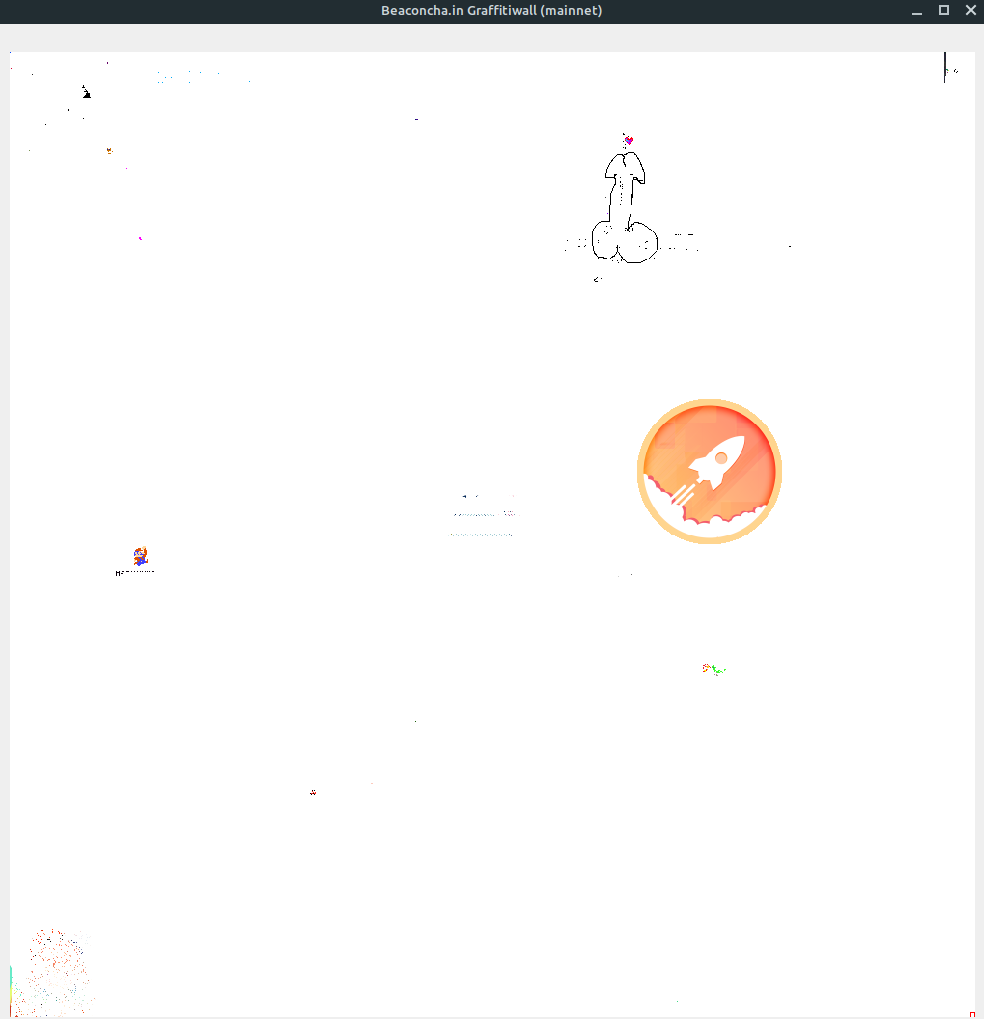
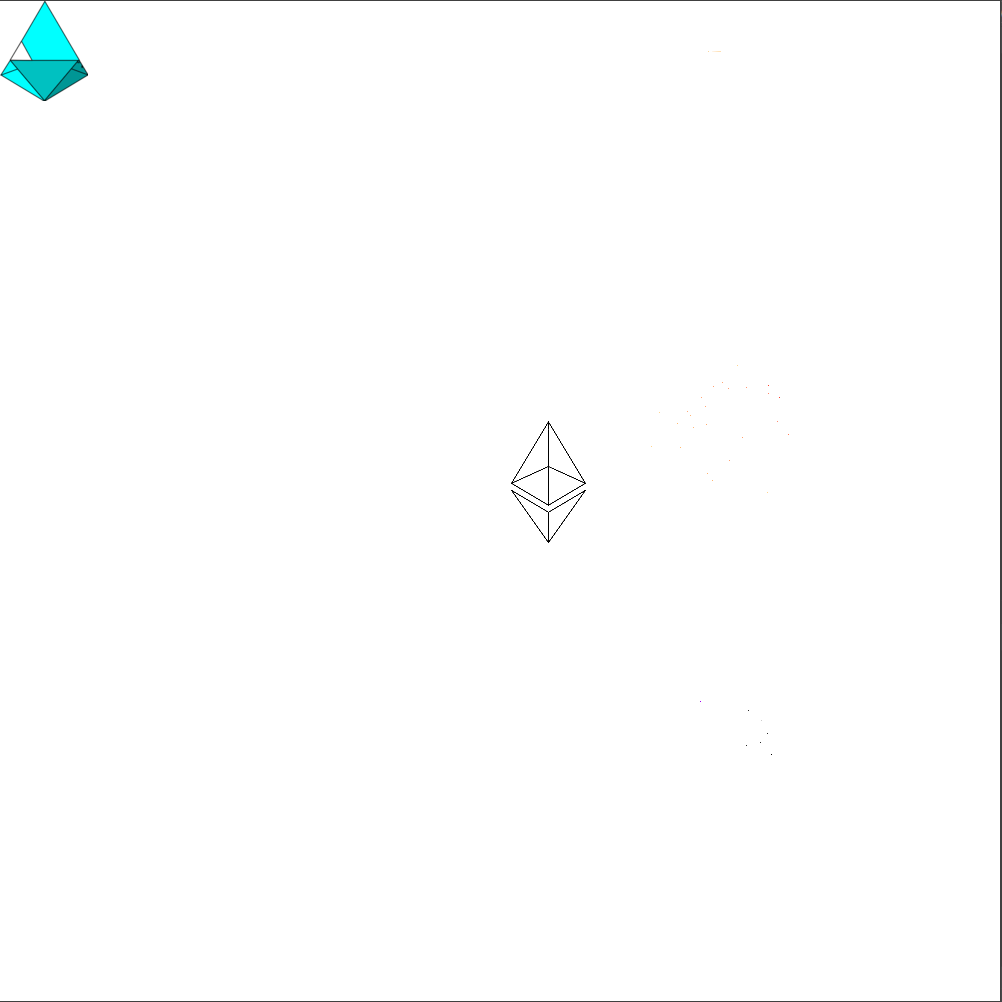
[REMOVE] old nimbus binaries
[FIX] reloading graffiti file for prysm
[UPDATE] readme showing currently drawn image

diff --git a/Drawer.py b/Drawer.py
@@ -151,11 +151,12 @@ if __name__ == "__main__":
     # file formatting
     pre = ""
     post = ""
-    if args.client != "teku":
-        pre += "default: "
-        if args.client == "prysm":
-            pre += '"'
-            post = '"'
+    if args.client == "lighthouse":
+        pre = "default: "
+    elif args.client == "prysm":
+        pre = 'ordered:\n  - "'
+        post = '"'
+    # no pre/post for teku, and nimbus uses rpc anyways
     print("Generating graffitis...")
     while True:
         now = time.time()

diff --git a/README.md b/README.md
@@ -10,12 +10,13 @@ representing your image on the wall. Then share it with your friends and start d
 
 ## Requirements
 You need python3 with some libraries. Install dependencies with `pip install -r requirements.txt`.
-It supports all 4 clients on amd64 and arm64 (raspberry pi & co).
-
+It should support all four clients on amd64 and arm64 (raspberry pi & co).
+[Note: I didn't test Prysm yet, let me know if it breaks!]
 
 ## Rocketpool users
 While this tool can be used by any eth2 staker, I want to provide an easy solution for rocketpool beta
-users. It will draw above situation (but on pyrmont).
+users. The first image we decided to draw on pyrmont is a minimal version of the Ethereum Logo (above situation).
+By following the instructions you can help drawing! Once we're done there will be a new image.
 
 1. **Running the script** \
    1.1 **Using docker** \
@@ -46,16 +47,7 @@ users. It will draw above situation (but on pyrmont).
    If you want to manually start the service and save some resources, you can also run the script
    alone. Here's how to do it using screen, but you could also use a system service for example.
    - Start the screen session: `screen -S graffiti`
-   - Run: `python3 Drawer.py --network pyrmont --client <your client> --out-file ~/.rocketpool/data/graffiti.txt`
-
-   1.3 **Nimbus users** \
-   You will need the unstable version for now which is not officially built and released.
-   Again, you can use one of my [docker images](https://hub.docker.com/repository/docker/ramirond/nimbus-eth2) or check
-   out official documentation to build your own. Next, load your new unstable image:
-   Edit `~/.rocketpool/config.yml` and select the new nimbus image
-   (e.g. `image: ramirond/nimbus-eth2:arm64-unstable`). \
-   For non-docker setups, you might want to use [my binaries](nimbus-unstable).
-   
+   - Run: `python3 Drawer.py --network pyrmont --client <your client> --out-file ~/.rocketpool/data/graffiti.txt`   
 
 3. Advise your validator client to load the graffiti from the generated file.
    - Edit `.rocketpool/chains/eth2/start-validator.sh` with the flags explained [below](#Usage-1).
@@ -71,7 +63,7 @@ desired configuration, so it can be picked up by the Drawer.
 `python3 Viewer.py` \
 You can move your image around using `wasd` and scale it with `+` and `-`
 (using different interpolation methods, iterated by `i`). To hide your image behind already drawn
-pixels, use `o` (shown below), `h` to hide it entirely. At any time you can print (to console)
+pixels, use `o` (example shown below), `h` to hide it entirely. At any time you can print (to console)
 the amount of pixels needed with `c`. To save your settings, press `f`. `Esc` or `q` to exit.
 
 To use your own file instead, edit `settings.ini` accordingly.
@@ -88,9 +80,7 @@ they each expect the graffiti file to be in a specific format. \
 Example: `python3 Drawer.py --network pyrmont --client lighthouse --out-file /mnt/ssd/lighthouse/graffiti.txt`
 
 Lighthouse, Teku and Prysm read the generated graffiti from a file.
-Nimbus gets updated via RPC. Note that this is still an `unstable` feature
-(if you don't want to build it yourself and you trust me, check out the binaries in 
-[nimbus-unstable](nimbus-unstable)). \
+Nimbus gets updated via RPC.\
 Just let the script run in another process (using screen, for example).
 Also don't forget restarting your eth2 validator client with the file specified / rpc enabled:
 - [Lighthouse](https://lighthouse-book.sigmaprime.io/graffiti.html#1-using-the---graffiti-file-flag-on-the-validator-client):
